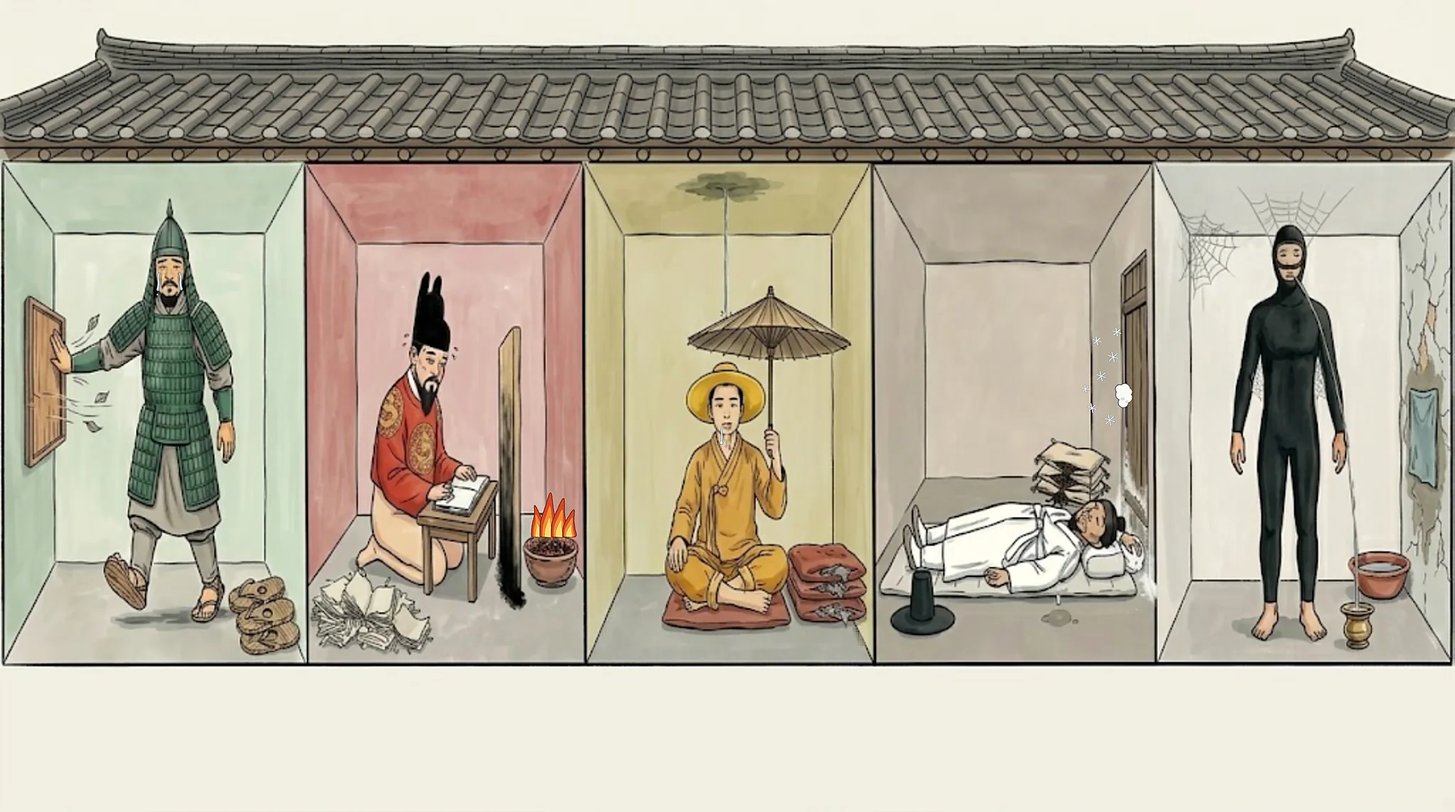
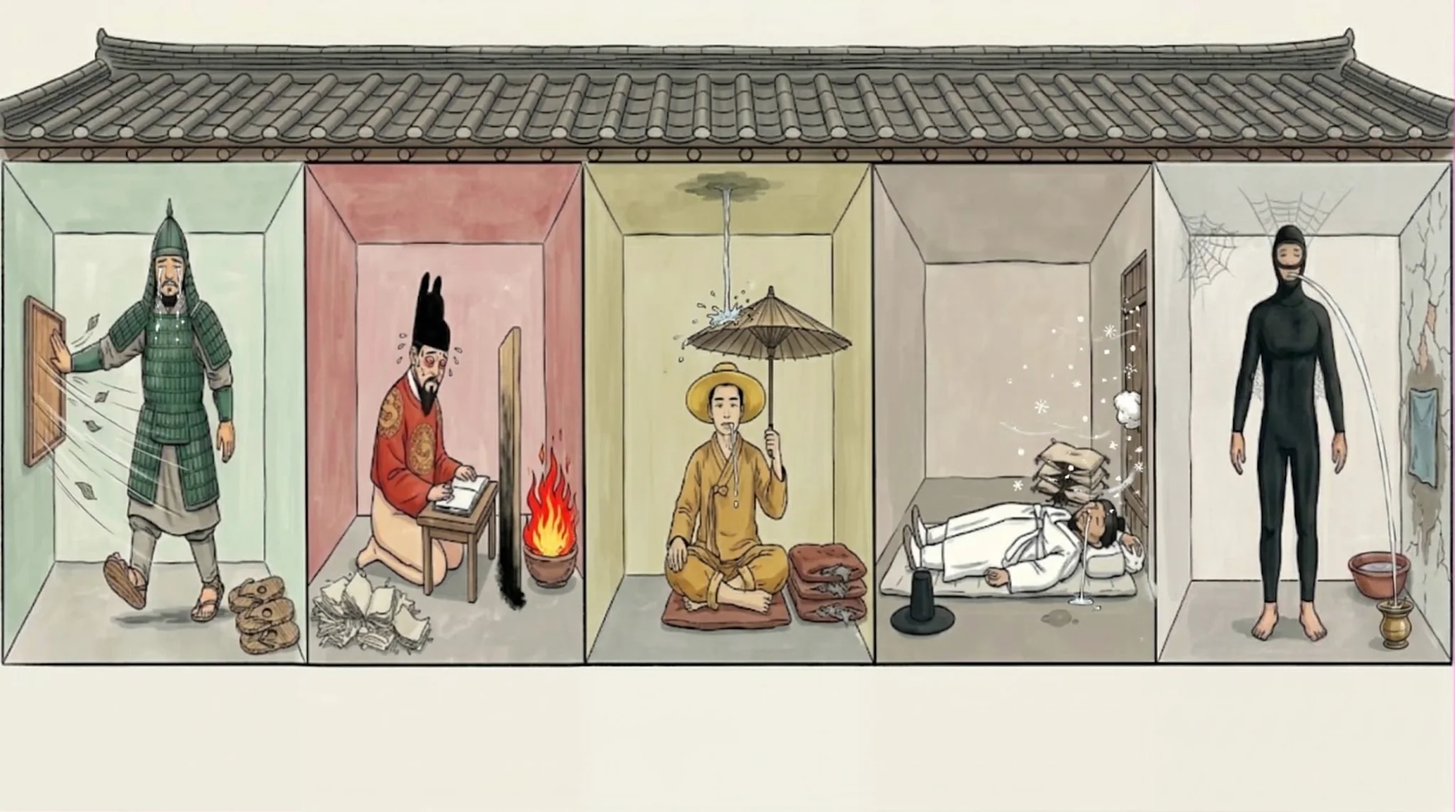
宣明五氣 s11u01 v2 — 보관했던 ZA~ZE 구역 편집을 4 Argon으로 실행해 PIL 덧그림 교체
2026-10-17 reCAPTCHA로 못 한 구역 편집 다섯(눈물·바람결 / 불꽃·충혈·땀 / 침·빗물 / 콧물·눈송이·솜뭉치 / 타구 침)을
같은 바탕 조각으로 실행, v1(wip/s11u01_v1_pil.webp) 위에 방 경계 own으로 합성. ZE는 같은 채팅 2회.
blind64z z20 90% · z50 85% · z80 88%(띠마다 9/9), blind65 P5 90% · Q5 93%, 5/5·5/5, 15/15·15/15.

Claude-Session: https://claude.ai/code/session_01H8LcZK4WVLkMjSUBUXBg6J

diff --git a/index.html b/index.html
@@ -548,7 +548,7 @@ footer{color:#999;font-size:12px;text-align:center;padding:20px}
 <img loading="lazy" decoding="async" src="images/s11u01.webp" alt="">
 <table><thead><tr><th>소품</th><th>잠그는 사실 (테스트 모드: 탭하여 확인)</th></tr></thead><tbody>
 <tr><td class="prop">앞벽을 걷어낸 긴 한옥 한 채 — 칸막이벽으로 나뉜 방 다섯(초록·붉은·노란·회벽·흰 회벽)이 한 줄로 붙고, 방마다 장부 인물 하나가 그 방에서 오래 하는 일(걷기·보기·앉기·눕기·서기)을 하고 있다. 방마다 같은 세 가지가 되풀이된다 — 해로운 기운과 사람 사이에 세운 가리개 · 얼굴 구멍에서 나온 액 · 닳은 물건 무더기(지금 쓰는 하나는 성함) <span class="why">왜?</span></td><td class="fact">素問·宣明五氣 — 五臟所惡(肝風·心熱·脾濕·肺寒·腎燥) · 五臟化液(肝淚·心汗·脾涎·肺涕·腎唾) · 五勞所傷(久行傷筋·久視傷血·久坐傷肉·久臥傷氣·久立傷骨) · 차례 = 木火土金水(相生)</td></tr>
-<tr class="reason"><td colspan="2" class="rz">다리 — 한 지붕 아래 다섯 방 — 한 편(宣明五氣)이 세 계열(所惡·化液·五勞)을 오장마다 동사형으로 배속한다는 것을, 방마다 같은 세 소품 문법으로 되풀이해 보여 준다(CANON 60 — 한 축은 다섯 칸에서 같은 문법을 반복해야 학습된다). 방 차례는 五行 s09u01과 같은 相生 차례.<br>◆ 개념 — 宣明五氣篇: 五藏所惡 「心惡熱 肺惡寒 肝惡風 脾惡濕 腎惡燥」 · 五藏化液 「心爲汗 肺爲涕 肝爲淚 脾爲涎 腎爲唾」 · 五勞所傷 「久視傷血 久臥傷氣 久坐傷肉 久立傷骨 久行傷筋」.<br>▸ 단원 통합(2026-10-17) — s11p01~p05 다섯 낱장을 한 장으로 합쳤다(4 Argon 바탕 1 — 낱장 다섯 칸 띠 참조). 낱장마다 있던 라벨 행 「素問·宣明五氣※」 다섯은 이 틀 행 하나로 묶었다. 구역 편집은 Gemini reCAPTCHA로 막혀(2026-10-17) 바탕 위에 PIL 덧그림 5(장군 눈물 · 농부 침 · 화로 불꽃 · 문틈 눈송이 · 흰 솜뭉치) + ✦ 메움으로 마감. 바탕 진단 판독 blind25(X): 宣明五氣 85% — 淚·涎 없음, 불꽃 없어 숯이 瘀로, 문틈 성에 = 裏寒 위험. 덧그림 뒤 통합판 blind26(판독자 둘): 판 표제어 **宣明五氣 五液·五惡·五勞 90% · 88%**, 다섯 인물 5/5 · 5/5, 인물마다 所惡·化液·五勞 셋 모두(肺 涕만 「요 끝에서 떨어지는 방울 — 추정」).</td></tr>
+<tr class="reason"><td colspan="2" class="rz">다리 — 한 지붕 아래 다섯 방 — 한 편(宣明五氣)이 세 계열(所惡·化液·五勞)을 오장마다 동사형으로 배속한다는 것을, 방마다 같은 세 소품 문법으로 되풀이해 보여 준다(CANON 60 — 한 축은 다섯 칸에서 같은 문법을 반복해야 학습된다). 방 차례는 五行 s09u01과 같은 相生 차례.<br>◆ 개념 — 宣明五氣篇: 五藏所惡 「心惡熱 肺惡寒 肝惡風 脾惡濕 腎惡燥」 · 五藏化液 「心爲汗 肺爲涕 肝爲淚 脾爲涎 腎爲唾」 · 五勞所傷 「久視傷血 久臥傷氣 久坐傷肉 久立傷骨 久行傷筋」.<br>▸ 단원 통합(2026-10-17) — s11p01~p05 다섯 낱장을 한 장으로 합쳤다(4 Argon 바탕 1 — 낱장 다섯 칸 띠 참조). 낱장마다 있던 라벨 행 「素問·宣明五氣※」 다섯은 이 틀 행 하나로 묶었다. 구역 편집은 Gemini reCAPTCHA로 막혀(2026-10-17) 바탕 위에 PIL 덧그림 5(장군 눈물 · 농부 침 · 화로 불꽃 · 문틈 눈송이 · 흰 솜뭉치) + ✦ 메움으로 마감. 바탕 진단 판독 blind25(X): 宣明五氣 85% — 淚·涎 없음, 불꽃 없어 숯이 瘀로, 문틈 성에 = 裏寒 위험. 덧그림 뒤 통합판 blind26(판독자 둘): 판 표제어 **宣明五氣 五液·五惡·五勞 90% · 88%**, 다섯 인물 5/5 · 5/5, 인물마다 所惡·化液·五勞 셋 모두(肺 涕만 「요 끝에서 떨어지는 방울 — 추정」).<br>▸ v2(2026-10-25) — reCAPTCHA가 풀려 보관한 구역 편집 ZA~ZE를 4 Argon으로 실행, PIL 덧그림을 갈아 끼움(눈물 · 바람결 · 불꽃·충혈·땀 · 침 실·빗물 · 콧물·눈송이·솜뭉치 · 타구로 뱉는 침). 판독(blind65): 판 단원 2/2 宣明五氣 90~93%, 5/5·5/5, 인물마다 所惡·化液·五勞 셋 모두(15/15·15/15) — v1의 肺 涕 반쯤 · 화풍 차이 사라짐.</td></tr>
 <tr><td class="prop">[木·초록 방] 초록 비늘갑옷 장군 — 방 안을 걸어감(맨 왼쪽 방) <span class="why">왜?</span></td><td class="fact">肝</td></tr>
 <tr class="reason"><td colspan="2" class="rz">다리 — 왕국 캐릭터 재사용=상징 사전. 같은 인물이 곧 같은 장부.<br>▸ 단원 통합(2026-10-17) — s11p01[0]에서 옮김.</td></tr>
 <tr><td class="prop">[木·초록 방] 뒷벽 창의 닫힌 나무 덧문을 장군이 손으로 누르고, 덧문 틈으로 잎과 바람결이 옆으로 비껴 날려 들어옴 <span class="why">왜?</span></td><td class="fact">肝惡風 (五臟所惡)</td></tr>
@@ -578,7 +578,7 @@ footer{color:#999;font-size:12px;text-align:center;padding:20px}
 <tr><td class="prop">[金·회벽 방] 뒷벽 나무 문의 벌어진 틈으로 눈송이가 들이치고, 그 문틈을 흰 솜뭉치로 틀어막음 <span class="why">왜?</span></td><td class="fact">肺惡寒 (五臟所惡)</td></tr>
 <tr class="reason"><td colspan="2" class="rz">다리 — 찬 기운의 침입 지점을 명사로(문틈+성에) → 솜뭉치로 봉쇄=所惡.<br>◆ 개념 — 왜 폐가 寒을 꺼리나: 폐는 겉(피모·호흡)과 직통하는 여린 장기(嬌臟)라 찬 기운에 가장 먼저 다친다.<br>▸ 단원 통합(2026-10-17) — s11p04[1]에서 옮김. 통합판에서 「문틈 성에·고드름」을 **문틈으로 들이치는 눈송이**로 바꿨다 — 사전 寒 갈림(안쪽 성에 = 裏寒)을 피하고(blind25 진단 판독이 정확히 이 오독을 짚음), 肝惡風(덧문 틈의 바람)과 같은 꼴로 맞췄다.</td></tr>
 <tr><td class="prop">[金·회벽 방] 콧등을 타고 턱 밑까지 길게 늘어져 **끝에 방울이 맺힌 맑은 줄기**, 그 아래 요에 젖은 자국 하나 <span class="why">왜?</span></td><td class="fact">肺爲涕 (五臟化液)</td></tr>
-<tr class="reason"><td colspan="2" class="rz">다리 — 肺開竅於鼻 — 폐의 액은 코로=콧물(涕).<br>　▸ 빈틈 메우기(2026-08-29) — **액체임을 확정한다.** 3차 판독에서 콧물이 「가루」로 읽혀 肺爲涕가 날아갔다 — 맺힌 방울과 젖은 자국이 액체의 증거다(§5 津 = 맑은 물방울과 같은 물성).<br>　　(종전 소품 — 길게 흐르는 콧물)<br>▸ 단원 통합(2026-10-17) — s11p04[2]에서 옮김.</td></tr>
+<tr class="reason"><td colspan="2" class="rz">다리 — 肺開竅於鼻 — 폐의 액은 코로=콧물(涕).<br>　▸ 빈틈 메우기(2026-08-29) — **액체임을 확정한다.** 3차 판독에서 콧물이 「가루」로 읽혀 肺爲涕가 날아갔다 — 맺힌 방울과 젖은 자국이 액체의 증거다(§5 津 = 맑은 물방울과 같은 물성).<br>　　(종전 소품 — 길게 흐르는 콧물)<br>▸ 단원 통합(2026-10-17) — s11p04[2]에서 옮김.<br>▸ v2(2026-10-25) — ZD: 콧구멍에서 요까지 늘어진 맑은 콧물로 다시 그림 → blind65 2/2 + 띠 둘 涕 ✓.</td></tr>
 <tr class="trap"><td class="prop">[金·회벽 방] 요에 축 늘어져 눈을 반쯤 감고 **입을 다문 채** 누움 + 머리맡에 포갠 **납작한 베개 셋** — 셋 다 눌려 진갈색 메밀껍질이 터져 나왔고 **네 귀퉁이마다 짧은 실 술이 달렸다** (목 밑에 벤 베개만 성하다) <span class="why">왜?</span></td><td class="fact">久臥傷氣 (五勞所傷 · 肺主氣)</td></tr>
 <tr class="reason trap"><td colspan="2" class="rz">다리 — 오래 "눕기"는 氣를 상함 — 氣의 주인이 肺라 이 방. 하품·늘어짐=「오래 누운 몸」의 증거. 심의 久視傷血과 짝을 이루는 주관 관계 함정.<br>◆ 개념 — 왜 오래 누우면 기가 상하나: 움직임이 없으면 기가 펴지지 못하고 정체되어 오히려 소모 — 폐가 기의 주인이라 이 방.<br>◆ 「久」를 무엇이 지는가: 자세로도 자국으로도 안 나온다 — 그 행위에 쓰는 물건이 「닿는 자리부터 닳아 없어진 채 여럿 쌓여 있는 것」이 「오래」를 진다(CANON §5-1). 久立만 닿는 물건이 없어(맨발·빈손) 거미줄이 대신 진다.<br>◆ 「傷Y」는 그림이 아니라 **라벨이 진다** — 다섯 칸 공통 규칙이다. 그림이 지는 것은 「久(오래)」 하나이고, 그 久가 어느 장부의 것인지는 「어느 방인가」(五臟 캐릭터)가 진다. 血·氣·肉·骨·筋 자체를 낱개 소품으로 흩으면 규칙 60이 금지한 상태가 된다 — 블라인드 판독에서 종아리 띠는 「그냥 부상」, 충혈은 「心藏神」, 하품은 「감기」로 읽혔다.<br>　▸ 빈틈 메우기(2026-08-29) — 두 가지를 지운다 — ⓐ **하품을 뺐다**(§5 「하품」 항목: 판독자가 五氣所病 腎爲欠으로 먼저 읽어 肺 방이 腎으로 뒤집혔다). 久臥의 증거는 「눕기 + 닳은 베개 셋」이 이미 다 진다 ⓑ 베개에 **술**을 달아 「곡물 자루」 오독을 끊었다 — 자루로 읽히면 「콩팥」 말놀이로 다시 腎이 된다. 자루는 §5에서 收 전담 기호이기도 하다.<br>　　(종전 소품 — 요에 늘어져 누움 + 힘없는 하품 + 진갈색 메밀껍질이 터져 나온 납작한 베개 세 개가 머리맡에 포개짐(벤 베개만 성함))<br>　　⚠ 정정 — 술만 더하고 **수는 셋 그대로 둔다.** §5 久 = 같은 물건 셋이 포개진 것이라 둘로 줄이면 久가 깨진다(五勞所傷 다섯 칸이 예외 없이 이 문법이다).<br>▸ 단원 통합(2026-10-17) — s11p04[3]에서 옮김.</td></tr>
 <tr><td class="prop">[水·흰 방] 검은 잠수복+후드+고글 잠수부 — 꼿꼿이 선 부동자세(맨 오른쪽 방) <span class="why">왜?</span></td><td class="fact">腎</td></tr>
@@ -586,7 +586,7 @@ footer{color:#999;font-size:12px;text-align:center;padding:20px}
 <tr><td class="prop">[水·흰 방] 들뜬 회벽이 쩍쩍 갈라져 박리 + 벽에 붙인 젖은 무명 수건과 고인 물그릇 <span class="why">왜?</span></td><td class="fact">腎惡燥 (五臟所惡)</td></tr>
 <tr class="reason"><td colspan="2" class="rz">다리 — 메마름을 벽의 균열·박리로 명사화, 젖은 수건과 물그릇으로 마른 벽을 적시는 것=燥를 꺼림.<br>◆ 개념 — 왜 신이 燥를 꺼리나: 조는 진액을 말리는 기운이라 신이 저장하는 정수(精水)를 고갈시키기 때문.<br>※ s09p04(→s09u01)의 갈라진 **땅**(秋燥·肺)과 같은 燥 기호다 — 딥링크라 옳고, 재료(마른 흙 ↔ 들뜬 회벽)와 **막는 사물의 유무**로 가른다. 所惡 칸에만 젖은 수건·물그릇이 있다(규칙 59).<br>※ 물은 부호가 없다 — **떨어지는 물줄기는 濕(해로움), 그릇에 고인 물은 보습(이로움)**. 이 칸에는 낙수·누수가 없다.<br>▸ 단원 통합(2026-10-17) — s11p05[1]에서 옮김.</td></tr>
 <tr class="trap"><td class="prop">[水·흰 방] 포물선을 그려 놋 타구로 뱉음(턱 비접촉) <span class="why">왜?</span></td><td class="fact">腎爲唾 (五臟化液) ★흘리는 涎(脾)과 변별</td></tr>
-<tr class="reason trap"><td colspan="2" class="rz">다리 — 唾=의지로 "뱉는" 침. 포물선+타구+턱 비접촉 세 조건이 涎과의 경계선.<br>◆ 개념 — 唾는 신정이 혀 밑(金津玉液)으로 올라온 진액 — 그래서 함부로 뱉지 말라는 양생 격언과 연결(정을 아낌).<br>▸ 단원 통합(2026-10-17) — s11p05[2]에서 옮김.</td></tr>
+<tr class="reason trap"><td colspan="2" class="rz">다리 — 唾=의지로 "뱉는" 침. 포물선+타구+턱 비접촉 세 조건이 涎과의 경계선.<br>◆ 개념 — 唾는 신정이 혀 밑(金津玉液)으로 올라온 진액 — 그래서 함부로 뱉지 말라는 양생 격언과 연결(정을 아낌).<br>▸ 단원 통합(2026-10-17) — s11p05[2]에서 옮김.<br>▸ v2(2026-10-25) — ZE: 포물선으로 놋 타구 안에 떨어지는 침(2차에서 타구 안으로) → blind65 2/2 唾 ✓(타구 = 요강 위험은 남음).</td></tr>
 <tr><td class="prop">[水·흰 방] 꼿꼿이 선 부동자세 + 두 겨드랑이와 머리 위에 쳐진 거미줄 셋 <span class="why">왜?</span></td><td class="fact">久立傷骨 (五勞所傷 · 骨=腎의 五體)</td></tr>
 <tr class="reason"><td colspan="2" class="rz">다리 — 오래 "서기"는 骨을 상함 — 骨은 腎의 五體. 오래 안 움직여 몸에 쳐진 거미줄=오래 서기의 명사화. 다섯 칸 중 유일하게 닿는 물건이 없어(맨발·빈손) 몸 위에 생긴 것으로 갔다. 원래는 「제자리에 닳은 두 발 자국」이었는데 「젖은 헝겊? 소금? 각질?」로 읽혀 폐기했다.<br>◆ 「久」를 무엇이 지는가: 자세로도 자국으로도 안 나온다 — 그 행위에 쓰는 물건이 「닿는 자리부터 닳아 없어진 채 여럿 쌓여 있는 것」이 「오래」를 진다(CANON §5-1). 久立만 닿는 물건이 없어(맨발·빈손) 거미줄이 대신 진다.<br>◆ 「傷Y」는 그림이 아니라 **라벨이 진다** — 다섯 칸 공통 규칙이다. 그림이 지는 것은 「久(오래)」 하나이고, 그 久가 어느 장부의 것인지는 「어느 방인가」(五臟 캐릭터)가 진다. 血·氣·肉·骨·筋 자체를 낱개 소품으로 흩으면 규칙 60이 금지한 상태가 된다 — 블라인드 판독에서 종아리 띠는 「그냥 부상」, 충혈은 「心藏神」, 하품은 「감기」로 읽혔다.<br>▸ 단원 통합(2026-10-17) — s11p05[3]에서 옮김.</td></tr>
 </tbody></table>

diff --git a/src/coverage/blind65/901_Q5.md b/src/coverage/blind65/901_Q5.md
@@ -1,0 +1,43 @@
+# 901 판독 (Q5)
+
+## 1단계 — 생판 (사전 없이 그림만)
+
+**① 판 표제어**
+- 1순위: **宣明五氣 — 五惡·五液·五勞所傷 통합** (85%)
+- 2순위: **五臟 五行配屬(五色·五液·五惡)** (10%)
+- 근거: 기와지붕 한 채가 다섯 칸으로 나뉘고, 칸 색이 왼쪽부터 청·적·황·회백·백(인물 흑)이다. 칸마다 「분비액 하나 + 싫어하는 기후 하나 + 오래 한 자세 하나」가 되풀이된다. 이는 『素問·宣明五氣』의 五液·五惡·五勞 세 묶음과 정확히 맞는다.
+
+**② 인물별 (왼쪽부터)**
+1. 청록 칸, 녹색 갑옷의 무사 — **肝** (5개): 녹색은 肝-靑. 무장은 將軍之官. 눈물은 肝爲淚. 판자 틈으로 드는 바람과 나뭇잎 5장은 肝惡風. 성큼 걷는 걸음과 닳은 짚신 3켤레 더미는 久行傷筋.
+2. 분홍·적색 칸, 곤룡포와 익선관 차림의 임금 — **心** (5개): 홍색은 心-赤. 임금은 君主之官. 이마의 땀방울 약 6개는 心爲汗. 화로 불과 그을린 판자는 心惡熱. 충혈된 눈과 다크서클로 책을 읽는 모습, 닳은 책 더미는 久視傷血.
+3. 황색 칸, 황색 승복에 삿갓을 쓴 좌선자 — **脾** (4개): 황색은 脾-黃. 입에서 흐르는 침은 脾爲涎. 천장 누수 얼룩, 떨어지는 물줄기, 우산은 脾惡濕. 방석 위 가부좌와 해진 방석 3개는 久坐傷肉.
+4. 회백 칸, 흰옷 차림으로 누운 사람 — **肺** (4개+α): 백의는 肺-白. 콧물이 바닥에 고인 것은 肺爲涕. 문틈으로 드는 눈송이와 눈뭉치는 肺惡寒. 요 위에 누운 자세와 해진 베개 3개는 久臥傷氣. 벗어 둔 갓은 相傅之官(재상·선비)일지도 모른다(불확실).
+5. 백벽 칸, 검은 잠수복 차림으로 선 사람 — **腎** (4개+α): 검정은 腎-黑이고, 잠수복은 水를 나타낸다. 놋 타구에 침을 뱉는 모습은 腎爲唾. 거미줄 3개, 갈라진 벽, 걸린 마른 수건은 腎惡燥. 꼿꼿이 서 있고 팔과 몸 사이에까지 거미줄이 친 것은 久立傷骨. 물대야는 뜻이 불분명하다.
+
+**③ 잔결**
+- 2번 임금의 하의가 맨살처럼 살색이라 어색하다. 세워 둔 판자가 한쪽만 까맣게 탄 뜻도 애매하다(열 가림막?).
+- 4번 바닥에 놓인 갓의 뜻을 모르겠다. 베개 끝 손 옆에 흰 토끼 같은 형상이 있다.
+- 5번 붉은 물대야의 뜻이 불명하다(唾 그릇? 燥에 맞선 가습?).
+- 1번 무사가 손으로 누르는 판자가 창 덧문인지 판때기인지 모호하다.
+- 지붕 처마 양 끝이 화면 가장자리에 닿아 꽉 차 있고, 하단 약 15%는 빈 여백이다. 칸 사이에 이어 붙인 흔적은 보이지 않는다.
+
+## 2단계 — 계통 (blind6_사전요약 어휘로 다시 읽기)
+
+**① 판 표제어**
+- 1순위: **宣明五氣 — 五惡·五液·五勞所傷 통합** (90%)
+- 2순위: **五臟 五行配屬(臟象 오장: 五色·五液·五惡)** (7%)
+- 판정: 사전이 1단계 읽기를 뒷받침하고 더 단단하게 한다. 첫째, 「惡 = 해로운 것과 사람 사이에 세워 막은 가리개」로 각 칸의 판자·그을린 판자·우산·문이 모두 惡으로 읽힌다. 둘째, 「久 = 같은 물건 셋이 포개진 것」(닳은 무더기는 傷이 아니라 久라는 갈림 포함)으로 짚신·방석·베개 3겹이 久로 확정된다. 그러니 칸마다 「臟 + 液 + 惡X + 久Y」 네 사실이 나란히 선 구조다.
+
+**② 인물별 (왼쪽부터)**
+1. 초록 비늘갑옷 장군 — **肝** (4개): 장군은 肝이다. 눈물은 肝爲淚. 손으로 세워 막은 판자(惡)와, 옆으로 눕고 흘러 날리는 잎·바람줄(風)이 합쳐 肝惡風. 걷는 걸음(行)과 짚신 3겹(久)이 합쳐 久行. 傷筋은 그림이 나르지 않으니 독자가 채운다.
+2. 붉은 곤룡포 임금 — **心** (4개): 임금은 心이다. 살갗의 땀방울은 汗 = 心爲汗. 불꽃(熱)과 임금 사이에 세운 판자가 惡이 되어 心惡熱을 이룬다. 1단계에서 애매했던 그을린 판자는 이로써 풀렸다. 크게 뜬 눈(目, 視)과 붉은 눈가(血), 닳은 책 무더기(久)가 합쳐 久視傷血.
+3. 노란 밀짚모자 농부 — **脾** (4개): 1단계에서 승려로 본 것은 사전에 따르면 농부(脾)다. 입에서 흐르는 침은 脾爲涎. 천장에서 쏟아지는 빗물(濕, 外濕)과 사람 사이를 우산이 막아 惡이 되니 脾惡濕. 가부좌(坐)와 방석 3겹(久)이 합쳐 久坐(傷肉).
+4. 흰 도포 재상 — **肺** (4개): 바닥에 벗어 둔 검은 갓은 재상의 옷차림이 자리를 바꾼 것이다. 太가 아니라 肺의 표지이자 누운 상태를 보탠다. 콧물은 肺爲涕. 문(가리개)과 문틈의 눈송이(外寒)가 합쳐 肺惡寒. 누운 자세(臥)와 베개 3겹(久)이 합쳐 久臥(傷氣). 문틈의 흰 뭉치는 氣(흰 김)로도 읽힐 수 있다.
+5. 검은 잠수복·후드·고글 잠수부 — **腎** (4개): 잠수부는 腎이다. 타구에 침을 뱉는 모습은 腎爲唾. 갈라진 벽과 마른 수건이 燥이지만, 세워 막은 가리개가 없어 惡의 표지는 약하다. 꼿꼿이 선 자세(立)와 몸에까지 친 거미줄이 久立(傷骨)이지만, 3겹 포갬 기호는 없다.
+
+**③ 잔결**
+- 5번 칸만 惡 가리개와 久 3겹이 빠져 있어 다른 네 칸과 문법이 어긋난다. 붉은 대야의 맑은 물은 사전대로라면 淸으로 읽히는데, 이 판에서는 뜻이 없다. 놋 그릇은 요강(小便)으로 오독될 위험이 있다.
+- 다섯 칸 모두 「그 사물이 깨진」 傷 기호가 없어, 傷筋·傷血·傷肉·傷氣·傷骨은 그림이 아니라 암기로 메워야 한다.
+- 2번 임금의 하의가 살색이라 어색하다. 4번 베개 끝에 흰 토끼 형상이 있다.
+- 흘러내리는 액체는 盛(넘쳐 흐름)으로, 기와지붕은 寺로 샐 여지가 있다.
+- 하단은 빈 여백이고, 처마가 화면 가장자리까지 꽉 찬다. 이어 붙인 흔적은 없다.

diff --git a/src/coverage/blind65/901_P5.md b/src/coverage/blind65/901_P5.md
@@ -1,0 +1,43 @@
+# 901 판독 (P5)
+
+## 1단계 — 생판 (사전 없이 그림만)
+
+**① 판 표제어**
+- 1순위 **宣明五氣 — 五藏所惡·五藏化液·五勞所傷 통합** (88%)
+- 2순위 **五臟 五行配屬(藏象 五臟 歸類表)** (8%)
+- 근거: 기와지붕 한 채에 방 5칸, 벽·옷 색이 靑·赤·黃·白·黑 순(木火土金水 상생순). 칸마다 「액체 하나 + 싫어하는 기후 하나 + 오래 한 자세 하나」가 똑같은 틀로 반복됨 → 《素問·宣明五氣》의 세 표를 한 장에 겹친 것.
+
+**② 인물별 (왼→오)**
+1. 녹색 방 갑옷 무사 — **肝** : ⓐ 靑색(木) ⓑ 무사=將軍之官 ⓒ 눈물 줄줄=肝爲淚 ⓓ 옆문을 밀자 바람·나뭇잎(6장 안팎) 들이침=肝惡風 ⓔ 걷는 중 + 바닥 닳아 구멍 난 짚신 3켤레=久行傷筋. **5개**
+2. 붉은 방 곤룡포 인물 — **心** : ⓐ 赤색(火) ⓑ 용보 곤룡포·익선관=君主之官 ⓒ 이마 땀방울=心爲汗 ⓓ 화로 불길 + 그을린 널판=心惡熱 ⓔ 충혈된 눈으로 책 읽기 + 다 읽은 책 더미=久視傷血. **5개**
+3. 노란 방 좌정 인물 — **脾** : ⓐ 黃색(土, 옷·갓·벽) ⓑ 입에서 침 흘림=脾爲涎 ⓒ 천장 얼룩에서 물이 새 우산 받침=脾惡濕 ⓓ 책상다리로 앉음 + 해져 솜 터진 방석 3장=久坐傷肉. **4개**
+4. 회백 방 누운 인물 — **肺** : ⓐ 白색(金, 흰 옷) ⓑ 콧물이 바닥까지 흘러 웅덩이=肺爲涕 ⓒ 문틈으로 눈발·찬바람, 솜뭉치로 틈 막음=肺惡寒 ⓓ 누워 있음 + 터진 베개 3개=久臥傷氣. **4개**
+5. 흰 방 검은 잠수복 인물 — **腎** : ⓐ 黑색(水, 잠수복=물) ⓑ 놋 타구에 침 뱉기=腎爲唾 ⓒ 갈라지고 벗겨진 벽 + 마른 수건 + 물대야=腎惡燥 ⓓ 꼼짝 않고 서 있어 몸·천장에 거미줄=久立傷骨. **4개**
+
+**③ 잔결**
+- 뜻 모를 소품: 4번 방 바닥의 검은 갓(벗어 둔 것인지 相傅之官 표지인지 불명), 4번 베개 끝 흰 토끼 얼굴, 5번 파란 수건·물대야(燥 반대 장치로만 추정), 2번 그을린 널판(熱과 중복).
+- 「3개 더미」(짚신·방석·베개)가 3칸에 반복되나 숫자 3이 나르는 사실은 못 찾음 — 단순 '오래 써서 닳음' 표시로 읽음.
+- 2번·4번 방 오른쪽 아래 바닥에 네모꼴 반짝이(✦) 2개 — 그림 내용과 무관, 생성 흔적 의심.
+- 화면 하단 약 20%가 빈 크림색 여백, 전체 해상도 흐림(확대 업스케일 느낌). 칸 경계·지붕은 연속, 이어 붙인 솔기는 안 보임.
+- 1번 방 지붕·벽 왼끝이 프레임 가장자리에 바짝 붙음(살짝 잘림).
+
+## 2단계 — 계통 (blind6_사전요약 어휘로 다시 읽기)
+
+**① 판 표제어**
+- 1순위 **宣明五氣 — 五藏所惡·五藏化液·五勞所傷** (93%, 상향)
+- 2순위 **五臟 五行配屬(藏象 五臟 系統表)** (5%)
+- 사전으로 더 잘 풀림: 「惡 = 해로운 것과 사람 사이의 가리개」가 다섯 칸 모두에 있다(문·널판·우산·문+솜·수건). 1단계에서 '그을린 널판'을 熱 중복으로 봤으나 실은 불꽃(熱)과 임금 사이의 가리개 = 惡. 「久 = 같은 물건 셋이 포개진 것」이 짚신·방석·베개 3칸에 그대로 맞음. 「닳은 무더기는 傷이 아니라 久」 규칙도 부합.
+
+**② 인물별 (왼→오)** — 옷 모양은 인물 지목일 뿐(官 등 따로 안 읽음)
+1. 초록 갑옷 장군 = **肝**(靑) : 눈물=肝爲淚 / 옆으로 날리는 잎=風 + 문을 밀어 막음(가리개)=惡 → 肝惡風 / 짚신 셋 포개짐=久 + 걷기 → 久行傷筋. **3개**
+2. 붉은 곤룡포 임금 = **心**(赤) : 땀방울=汗=心爲汗 / 불꽃=熱 + 널판 가리개=惡 → 心惡熱 / 독서 + 붉은 눈=血 → 久視傷血. **3개**
+3. 노란 밀짚모자 농부 = **脾**(黃) : 침=脾爲涎 / 천장 누수=外濕 + 우산 가리개=惡 → 脾惡濕 / 앉음 + 방석 셋=久 → 久坐傷肉. **3개**
+4. 흰 도포 재상 = **肺**(白) : 콧물=肺爲涕 / 눈송이=外寒 + 문·솜 가리개=惡 → 肺惡寒 / 누움 + 베개 셋=久 → 久臥傷氣(벗어 둔 갓 = 자리 바뀜, 臥 보강). **3개**
+5. 검은 잠수복 잠수부 = **腎**(黑) : 침 뱉기=腎爲唾 / 갈라진 벽=燥 + 수건(가리개?)·물대야 → 腎惡燥 / 서 있음 + 거미줄 → 久立傷骨. **3개**
+
+**③ 잔결 (사전 기준)**
+- 傷筋·傷肉·傷氣·傷骨의 筋·肉·氣·骨 기호(힘줄 다발·살덩이·흰 김·흰 뼈)가 없음 → 五勞의 '傷○' 뒷절반은 心(붉은 눈=血)만 글자로 실림.
+- 2번 책 더미는 셋 포개짐이 아닌 흐트러진 무더기, 5번 久立은 셋 포개짐 대신 거미줄 → 久 문법 불일치.
+- 5번 놋 그릇이 등재 기호 요강(=小便)과 같은 꼴, 물대야는 淸(맑고 찬 물 한 그릇)과 겹침 → 오독 위험. 수건이 가리개로 약함.
+- 4번 바닥 갓은 太(사물 위 갓)와 헷갈릴 여지, 베개 끝 토끼 얼굴 미상.
+- ✦ 반짝이 2개(2·4번 칸 오른쪽 아래), 하단 빈 여백, 흐린 해상도. 이어 붙인 솔기는 없음.

diff --git a/src/MASTER_단원통합_구역편집.md b/src/MASTER_단원통합_구역편집.md
@@ -439,6 +439,9 @@ python3 zone_kit.py finish comp.png <repo>/images/s13u01.webp --wm 1210,760,1260
 | 이웃 인물(心 임금)의 **우연히 검게 칠해진 손톱**이 사전 爪로 읽혀 肝의 華在爪가 心 칸으로 샘(2/2 + 띠) | 바탕이 손톱 끝을 검은 점으로 그림 | 華 소품이 몸의 작은 부위(손톱·털·머리칼)면 **다른 인물의 같은 부위를 평범하게** 지운다. PIL 덮개는 둘레 **살색 중앙값 원판** — 밝은 픽셀 평균으로 덮었더니 「흰 반짝이 = 華+爪」로 또 읽힘(`board_hist/s20u01_post.py`) |
 | 구역 편집 셋을 **탭 셋에 나눠 동시에** 보냄 (s20u01 ZB·ZC·ZD) | — | 크롭이 겹쳐도(중심 195 css 간격) own을 사람 경계로 잡으면 이음매 깨끗(정합 셋 다 0,0). 한 탭은 6분 걸림 — 기다리는 동안 다른 탭 결과를 붙인다. 오늘은 탭 B(1171×735)도 첨부가 붙었다 |
 | 오래전 마감한 판을 허브에 올리니 **가장자리 검은 띠**(r3a 오른쪽 위 18열 — 타일 캡처 때 오버레이 밖) · **페더 그림자 띠**(r1a 아래 레인 ×0.73)가 보임 | 마감 때 가장자리·이음매 검사를 안 거친 판 | 허브에 올리기 전 판마다 ① 가장자리 4변의 평균 밝기(검정·마젠타 줄) ② 열별 90 백분위가 여러 줄 띠에 걸쳐 같은 x에서 꺼지는 곳(페더 그림자)을 기계로 본다. 그림자는 흰 바탕 열의 이득(252/p90)을 그 띠에만 곱해 지운다 |
+| 막혔던 구역 편집 프롬프트 다섯을 **8일 뒤 그대로** 보내니 다섯 다 1회에 통함 (s11u01 v2) | — | 구역 편집이 막히면(reCAPTCHA·도구 정지) 프롬프트를 `unify_*_prompts.json`에 보관하고 PIL로 임시 마감 → 풀리면 같은 바탕 조각으로 실행해 갈아 끼운다. PIL 덧그림은 사실은 세우지만(20/20) 독자가 「화풍이 다른 오버레이」로 짚는다 |
+| 같은 채팅 2차 요청에 **「이미지 도구가 연결되어 있지 않다」 글과 함께 새 그림**이 옴 (s11u01 ZE2 — 침이 타구 안으로) | §7 허용 카드 행과 같은 현상 | `model-response` 글만 보고 버리지 말고 `img` 개수를 센다 — 둘째 그림이 있으면 그것이 2차 결과 |
+| 조각 다섯을 세 탭에 나눠 보내다 두 탭이 동시에 **reCAPTCHA** (s11u01 v2 — 10-17과 같은 판) | 짧은 시간에 첨부 업로드 여러 번 | 사용자에게 알리고 로컬 작업(앞 조각 합성)으로 기다린다 — 이번엔 몇 분 안에 풀림. 풀린 뒤 탭 하나는 paste가 안 붙고(queued 2개) 다른 탭은 정상 — 안 붙는 탭은 그 턴은 버린다 |
 ---
 
 ## 8. 六淫에서 남은 잔결 (다음 손질 후보)
@@ -454,7 +457,7 @@ python3 zone_kit.py finish comp.png <repo>/images/s13u01.webp --wm 1210,760,1260
 | **六淫** | s15p01~06 (6) | 24 | ✅ `s15u01` 완료 |
 | **五行 왕국** | s09p01~05 (5) | 20 | ✅ `s09u01` 완료(2026-10-16, blind21 판 표제어 85%·90%, 인물 5/5·5/5) |
 | **八卦 마주봄** | s10p02~05 (4) | 13 | ✅ `s10u01` 완료(2026-10-16, blind23 판 표제어 92%·88%, 인물 8/8·8/8, 네 쌍 관계 4/4) |
-| **宣明五氣 오장 방** | s11p01~05 (5) | 25 | ✅ `s11u01` 완료(2026-10-17, blind26 판 표제어 90%·88%, 인물 5/5·5/5 — 구역 편집은 reCAPTCHA로 못 하고 PIL 덧그림으로 대체, Gemini 풀리면 ZA~ZE로 갈아 끼울 것) |
+| **宣明五氣 오장 방** | s11p01~05 (5) | 25 | ✅ `s11u01` 완료(2026-10-17, blind26 판 표제어 90%·88%, 인물 5/5·5/5 — 구역 편집은 reCAPTCHA로 못 하고 PIL 덧그림으로 대체) → **v2 2026-10-25**: 보관한 ZA~ZE를 4 Argon으로 실행해 덧그림을 갈아 끼움(blind65 90%·93%, 5/5·5/5, 15/15·15/15 — 肺 涕·화풍 차이 잔결 해소) |
 | **望色 五色** | s12p01~06 (6) | 24 | ✅ **두 장으로 가름**(환자 17명 — 한 장이면 얼굴이 절반 아래로): `s12u01` 靑·赤·黃(blind28 88%·88%, 9/9·9/9) · `s12u02` 白·黑·善惡(blind31 85%·80%, 善惡 쌍둥이 ✓✓) — 2026-10-17 |
 | **問診·切診** | s12p07·09·10 (3) | 14 | ✅ `s12u03` 완료(2026-10-18, blind33 四診 55/75/75%, 8脈 8/8 ✓✓✓, 寸關尺 = 징검돌 셋 ✓✓✓, 聾 표정 손질 뒤 耳聾 ✓ — 잔결: 聾↔聞診 30%, 냇물 낙차의 盛·下 잡음, 징검돌이 냇물을 안 가로지름) · 도해 s12p08은 그대로 |
 | **六經** | s13p01~06 (6) | 24 | ✅ **두 장으로 가름**(사람 아홉 — 얼굴 표지·세간 소품): `s13u01` 三陽(성 밖·성문·마당, blind35 88%·65%, 5/5·5/5) · `s13u02` 三陰(곳간·어두운 방·가장 깊은 방, blind37 90%·85%, 4/4·4/4) — 한 성의 단면을 이어 그림, 자리 = 病位(表·半表半裏·裏·三陰), 차례는 도해 s13p11 · 2026-10-18 |

diff --git a/src/coverage/blind64z/z50.md b/src/coverage/blind64z/z50.md
@@ -1,0 +1,25 @@
+# z50 판독
+
+## 1단계 — 생판 (사전 보기 전)
+
+**① 단원**: **宣明五氣**(素問·宣明五氣篇) 70% / 2순위 **五行 五臟배속표** 20% / 3순위 **七情·勞逸(五勞所傷)** 10%
+
+**② 인물** — 한 기와지붕 아래 세 칸, 칸마다 벽색 = 五色.
+- 왼칸(분홍·붉은 방) 익선관·용보 붉은 곤룡포의 왕 = **心**(君主之官·火). 이마의 땀방울 = **心爲汗**(五液). 화로불 = **心惡熱**(五惡). 충혈된 눈 + 책상에서 책 보기 + 바닥의 해진 책 더미 = **久視傷血**(五勞). 세워 둔 널판자의 시커먼 그을음 = 열에 상함(또는 五臭 焦) — 불확실.
+- 가운데(노란 방) 노란 갓·노란 옷의 농부 = **脾**(土). 입에서 길게 흐르는 침 = **脾爲涎**. 천장 얼룩에서 새는 빗물 + 받쳐 든 우산 = **脾惡濕**. 방석 위 가부좌 + 곁의 속이 터진 살색 방석 3장 = **久坐傷肉**.
+- 오른칸(회백 방) 흰옷 차림으로 누운 사람 = **肺**(金). 코에서 바닥까지 흐르는 콧물 = **肺爲涕**. 눈송이·찬바람 = **肺惡寒**. 누운 자세 + 갈라진 베개 3개 = **久臥傷氣**.
+- 관계: 왼→오 **火→土→金 相生 순서**로 칸이 이어짐. 한 지붕 = 한 몸의 五臟. 빠진 **肝(淚·惡風·久行傷筋)**, **腎(唾·惡燥·久立傷骨)**은 이웃 띠 몫으로 추정. 각 칸이 「液·惡·勞」 3항목을 똑같이 나르는 병렬 구조.
+
+**③ 잔결**: 그을린 널판자의 뜻 불명. 흰 방 바닥의 검은 갓(腎=黑 예고? 단순히 벗어 둔 것?). 베개를 가르는 검은 균열. 왕의 하체가 맨다리처럼 살색. 세 칸의 소실점·천장 높이가 서로 달라 이어 붙인 흔적이 보임. 오른 칸 오른쪽 끝에서 눈발·인물 머리가 잘림.
+
+## 2단계 — 계통 (사전 어휘로 다시 읽기)
+
+**① 단원**: **宣明五氣** 85% (「惡 = 해로운 것과 사람 사이 가리개」 어휘가 붙자 五惡이 확정됨) / 2순위 **五行 五臟배속** 12%
+
+**② 인물** (옷 색 = 五色, 옷차림 = 인물 지시)
+- 왼칸 붉은 곤룡포 임금 = **心**. 살갗의 땀방울 = 汗 → **心爲汗**. 불꽃(熱)과 임금 사이에 세운 널판자 = 惡(가리개) → **心惡熱** — 판자가 그을린 것은 열을 막아 낸 흔적이라 1단계 수수께끼가 풀림. 충혈된 눈 = 目+血, 바닥의 닳아 해진 책 무더기 = 久(닳은 무더기는 傷 아닌 久) → **久視傷血**.
+- 가운데 노란 밀짚모자 농부 = **脾**. 입(口)에서 흐르는 침 → **脾爲涎**(口 = 脾竅도 함께). 천장에서 새는 빗물(外濕)과 머리 사이의 우산 = 惡 → **脾惡濕**. 가부좌(坐) + 포갠 방석 셋 = 久, 터진 살색 방석 = 肌(살덩이)+傷 → **久坐傷肉**.
+- 오른칸 흰 도포 재상 = **肺**(바닥의 검은 갓은 재상 차림이 누워 벗겨진 것). 열린 콧구멍(鼻)에서 흐르는 콧물 → **肺爲涕**. 눈송이 = 寒 → **肺惡寒**. 누움(臥) + 포갠 베개 셋 = 久, 베개를 가르는 검은 균열 = 傷, 틈에서 새는 흰 김 = 氣 → **久臥傷氣**.
+- 관계: 왼→오 **火→土→金 相生 순서**, 脾가 셋 중 가운데 = **中**(中央土). 세 칸 모두 「液·惡·勞」 3항목 병렬 → 宣明五氣篇의 五液·五惡·五勞所傷 세 표를 칸별로 잘라 놓은 것. 肝·腎 칸은 이웃 띠.
+
+**③ 잔결**: 肺 칸에는 눈송이와 사람 사이 가리개(惡)가 분명치 않음 — 포갠 베개가 가리개 겸 久를 이중으로 지는 듯해 과적. 가로로 흐르는 흰 곡선이 氣(김)인지 風(옆으로 날림)인지 갈림 — 風으로 읽으면 肝惡風과 샌다. 바닥의 검은 갓이 太(사람 아닌 것 위의 갓)로 오독될 여지. 긴 기와지붕이 寺로 읽힐 여지. 임금 하체가 맨다리처럼 보임. 세 칸 소실점 불일치(이어 붙인 흔적).

diff --git a/src/coverage/blind64z/z80.md b/src/coverage/blind64z/z80.md
@@ -1,0 +1,27 @@
+# z80 판독
+
+## 1단계 — 생판 (그림만)
+
+**① 단원**: **宣明五氣**(素問·宣明五氣篇 — 五液·五惡·五勞所傷) 80%. 차순위 **五臟 五行귀속표(藏象)** 15%.
+
+**② 인물** — 한 지붕 아래 방 셋, 왼→오 노랑·흰·검정 = 土→金→水(相生 순). 띠는 다섯 방 중 끝 셋, 지붕 끝 처마가 오른쪽에서 끝남.
+- 왼쪽 방(**脾**): 노란 도포·노란 갓·노란 벽. 입꼬리로 침이 줄줄 흘러내림 = **脾爲涎**. 천장 누수 + 실내 우산 = **脾惡濕**. 방석 위 책상다리 = **久坐傷肉**; 곁의 방석 3장이 해져 솜이 터짐 = 오래 앉아 '살'이 닳음.
+- 가운데 방(**肺**): 흰 옷, 누워 있음 = **久臥傷氣**. 코에서 콧물이 바닥까지 = **肺爲涕**. 문틈으로 눈보라, 솜으로 틈을 막음 = **肺惡寒**. 베개 3개가 쌓여 찢어짐 = 오래 누운 소모(氣 빠짐).
+- 오른쪽 방(**腎**): 검은 잠수복(水·黑). 서 있음, 몸에 거미줄까지 = **久立傷骨**. 입에서 침을 멀리 뱉어 놋 타구에 = **腎爲唾**. 갈라진 마른 벽·천장 거미줄 = 燥, 물대야·젖은 수건·잠수복으로 습기 보충 = **腎惡燥**.
+
+**관계**: 세 방이 상생 순 土→金→水로 나란함(앞 두 방 肝·心은 이웃 띠). 涎(흘림)↔唾(뱉음)의 대비 — 둘 다 입의 액이나 脾·腎으로 갈림. 濕(왼끝)↔燥(오른끝)의 대비. 자세 坐·臥·立 셋 = 五勞 중 셋. 한 사람이 液·惡·勞 3사실씩, 3인 × 3 = 9사실.
+
+**③ 잔결**: 가운데 바닥의 검은 **갓**(흑립) — 뜻 불명(말총=肺脈毛? 華蓋?). 가운데 베개 찢김의 검은 내용물 정체 불명. 잠수복 머리의 마스크·후드는 腎 외 사실 없어 보임. 이어 붙인 흔적은 뚜렷하지 않음.
+
+## 2단계 — 계통 (blind6_사전요약 적용)
+
+**① 단원**: **宣明五氣**(五藏化液·五藏所惡·五勞所傷) 88%. 인물 옷이 그대로 五色·五臟(노란 밀짚모자 농부=脾, 흰 도포 재상=肺, 검은 잠수복 잠수부=腎)이라 1단계 짐작이 사전으로 확정됨. 차순위 **藏象 五行귀속** 8%.
+
+**② 인물**
+- **脾**(농부): 입(口=어두운 구멍)에서 흐르는 침 = **脾爲涎**. 천장 물줄기(濕) + 사람과 물 사이를 막은 우산(**惡**=가리개) = **脾惡濕**. 방석 **셋 포개짐 = 久** + 앉음 + 터진 도톰한 방석(肌의 사물이 해짐) = **久坐傷肉**.
+- **肺**(재상): 콧구멍에서 바닥까지 = **肺爲涕**. 문틈 눈송이 = **寒**(外寒), 문과 머리 사이에 쌓아 막은 베개·문틈 솜 = **惡** → **肺惡寒**. 베개 **셋 포개짐 = 久** + 누움 + 찢긴 틈 곁의 흰 김(氣) = **久臥傷氣**. 바닥의 갓은 재상의 옷차림(肺) — 누워서 벗어 둔 자리 바뀜, 太 아님.
+- **腎**(잠수부): 입에서 뱉어 타구에 담김 = **腎爲唾**. 갈라진 벽 = **燥**, 그 위를 덮은 젖은 수건(惡=가리개)·물대야 = **腎惡燥**. 선 자세 + 몸에 친 거미줄 = **久立傷骨**(사전 글자 久·傷·骨 없음 — 자세로만 나름).
+
+**관계**: 세 방이 五色 순 黃→白→黑 = 土→金→水 상생 차례(肝·心 방은 이웃 띠). 한 사람이 液·惡·勞 3사실, 3×3=9. 涎(흘림)↔唾(뱉음)은 같은 입의 액이 脾·腎으로 갈림, 濕↔燥 양끝 대비.
+
+**③ 잔결**: 腎 방에만 久(셋 포개짐)·傷·骨 글자가 없어 久立傷骨이 자세에만 기댐. 肺 방 눈보라의 옆으로 흐르는 흰 줄이 **風**(옆으로 흘러 날림)으로도 읽혀 肝惡風과 샐 수 있음. 腎 방 맑은 물대야가 **淸**(맑고 찬 물 한 그릇)과 부딪힘. 가운데 베개 틈의 검은 내용물은 여전히 뜻 불명. 방석·베개의 '터짐'은 傷 갈림(닳은 무더기=久)과 겹쳐 傷을 따로 세우지 못함.

diff --git a/src/coverage/blind64z/z20.md b/src/coverage/blind64z/z20.md
@@ -1,0 +1,27 @@
+# z20 판독 (blind64z)
+
+## 1단계 — 생판 (그림만)
+
+**① 단원**: **宣明五氣**(素問·宣明五氣篇: 五液·五惡·五勞所傷) 1순위 80%. 차순위 **五行 藏象 귀속표**, **十二官(靈蘭秘典)**.
+
+**② 인물·소품**
+- 綠室 갑옷 장수 = **肝**. 장수 자체 = 將軍之官. 두 줄기 눈물 = 肝爲淚(五液). 벽의 나무판을 손으로 밀어 막는데 바람줄과 나뭇잎(약 6장)이 들이침 = 肝惡風(五惡). 크게 내딛는 걸음과 바닥에 쌓인, 구멍 나게 닳은 짚신 3짝 = 久行傷筋(五勞). 초록 방 = 靑.
+- 赤室 용포 임금 = **心**. 임금 = 君主之官. 이마 땀방울(약 6) = 心爲汗. 화로의 불 + 불 앞을 가린 그을린 세움판자 = 心惡熱(그을음 = 焦臭일 가능성). 충혈된 붉은 눈 + 책상의 책 + 바닥의 종이 더미 = 久視傷血. 붉은 방 = 赤.
+- 黃室 삿갓 쓴 사내 = **脾**. 입에서 늘어진 침 = 脾爲涎. 천장 먹구름 얼룩에서 새는 물줄기를 우산이 받음 = 脾惡濕. 방석 위 가부좌 = 久坐傷肉. 노란 방·노란 옷 = 黃.
+
+**관계**: 한 지붕 아래 칸이 왼쪽부터 木→火→土, 곧 상생 순(肝→心→脾)으로 늘어섬. 오른쪽 이웃 띠에 肺·腎 칸이 이어질 것으로 봄. 세 사람이 각자 싫어하는 기운을 문판·판자·우산으로 막는 같은 짜임 = 五惡 대구. 장수가 임금 칸 쪽으로 걸음 = 將軍이 君主를 섬김/木生火.
+
+**③ 잔결**: 임금 하체가 살색이라 벗은 듯 보임. 판자의 그을음이 불 쪽이 아니라 임금 쪽 면에 있음. 벽에 붙은 나무판의 정체(문? 방패?)가 모호함. 사내 옷이 승복풍. 우산 오른쪽은 잘림(이웃 띠 몫). 지붕 왼끝 마감이 있어 이 띠는 통합판의 왼쪽 끝으로 봄. 이어 붙인 흔적은 뚜렷하지 않음.
+
+## 2단계 — 계통 (blind6_사전요약 적용)
+
+**① 단원**: **宣明五氣**(五惡·五液·五勞所傷) 90%로 올림. 사전의 「惡 = 해로운 것과 사람 사이에 세워 막은 가리개」, 「久 = 같은 물건 셋이 포개진 것」이 세 칸에 고르게 맞아떨어진다.
+
+**② 인물·소품** (옷 모양은 인물 지시일 뿐이라 1단계의 將軍之官·君主之官 읽기는 버림. 방·옷 색 = 五色 靑·赤·黃)
+- 초록 갑옷 장군 = **肝**. 옆으로 흘러 날리는 잎(약 6장) = 風. 그것을 손으로 눌러 막은 벽판 = 惡 → **肝惡風**. 두 줄기 눈물 = **肝爲淚**. 닳아 구멍 난 짚신 3짝 포개짐 = 久 + 걸음 = **久行**(傷筋. 筋 글자인 갈색 힘줄은 그려지지 않음).
+- 붉은 곤룡포 임금 = **心**. 불꽃 = 熱. 불과 임금 사이에 선 그을린 판자 = 惡 → **心惡熱**. 머리 둘레 땀방울(약 6–7) = 汗 → **心爲汗**. 닳은 책 3권이 포개진 더미 = 久, 책상의 책 = 보기, 충혈된 붉은 눈 = 目 + 血 → **久視傷血**.
+- 노란 밀짚모자 농부 = **脾**. 천장 얼룩에서 떨어지는 물 = 濕(위에서 오니 外濕 쪽). 그 물을 받는 우산 = 惡 → **脾惡濕**. 입에서 늘어진 침 = **脾爲涎**. 방석 위 가부좌 = **坐**(久坐傷肉).
+
+**관계**: 세 사람이 똑같이 「가리개로 막는다」(惡)는 짜임이 五惡의 대구를 이룬다. 칸은 왼쪽부터 木→火→土 순이고, 오른쪽 이웃 띠에 肺(惡寒·涕·久臥)와 腎(惡燥·唾·久立)이 이어질 것으로 봄. 칸마다 惡·液·勞를 하나씩 진 1장부 1칸의 표 구조다.
+
+**③ 잔결**: 농부 칸에만 久(셋 포개짐)가 없어 「久坐」가 「坐」로만 읽힌다. 傷筋·傷肉의 筋·肌 글자가 없다. 판자의 그을음이 불 반대쪽 면에 있다. 임금 하체가 살색이라 벗은 듯 보인다. 淚·涎은 사전에 없는 글자라 그림 그대로 읽었다.

diff --git a/src/coverage/blind65_report.md b/src/coverage/blind65_report.md
@@ -1,0 +1,26 @@
+# blind64z / blind65 — 宣明五氣 통합판 s11u01 v2 (2026-10-25) — PIL 덧그림 → Argon 구역 편집 ZA~ZE
+
+판: `images/s11u01.webp`(v2). 2026-10-17 마감본(v1 = `board_hist/wip/s11u01_v1_pil.webp`)은 Gemini reCAPTCHA로 구역 편집을 못 해 눈물·침·불꽃·눈송이·솜뭉치를 PIL로 덧그렸고, blind26(Y·Z)이 「화풍이 다른 오버레이」로 짚었다. 이번에 보관해 둔 ZA~ZE 프롬프트를 그대로 4 Argon에 보내(바탕 `wip/s11u01_base_v1.png` 조각) v1 위에 own 범위로 합성했다. ZE는 같은 채팅 2회(1차 침이 타구 옆 바닥 → 2차 타구 안). ✦ 둘 메움(ZB·ZD 조각 오른쪽 아래).
+
+## 구역 판독 blind64z (띠 하나씩, 1인)
+| 띠 | 구역 | 단원(2단계) | 읽힌 것 | 안 읽힌 것 |
+|---|---|---|---|---|
+| z20 | 肝 · 心 · 脾 | **宣明五氣 90% ✓** | 肝 淚 · 날리는 잎 + 덧문 = 惡風 · 짚신 셋 = 久行 / 心 汗 · 불꽃 + 통널 = 惡熱 · 붉은 눈 + 헌 책 = 久視傷血 / 脾 涎 · 누수 + 우산 = 惡濕 · 방석 = 坐 — 1단계부터 아홉 다 | 脾 칸만 「셋 포갬 = 久」가 안 보임(방석 셋이 띠 가장자리에 걸림) · 筋·肌 글자 없음 · 임금 하체 살색 |
+| z50 | 心 · 脾 · 肺 | **宣明五氣 85% ✓** | 心 汗·惡熱·久視傷血 / 脾 涎·惡濕·久坐傷肉(방석 셋 = 久, 터진 살색 = 肌+傷) / 肺 涕(콧구멍) · 눈송이 = 惡寒 · 베개 셋 + 누움 = 久臥傷氣 — 아홉 다 | 肺 칸 가리개(惡)가 베개 더미와 과적 · 흰 곡선이 氣 ↔ 風 사이 · 갓 → 太, 기와 → 寺 위험 · 세 칸 소실점이 달라 「이어 붙인 흔적」 |
+| z80 | 脾 · 肺 · 腎 | **宣明五氣 88% ✓** | 脾 涎·惡濕·久坐傷肉 / 肺 涕·惡寒(눈송이 + 솜)·久臥傷氣 / 腎 **타구에 뱉음 = 唾** · 갈라진 벽 + 젖은 수건 = 惡燥 · 선 자세 + 거미줄 = 久立傷骨 — 아홉 다 | 腎 칸에 久·傷·骨 글자 없음 · 눈보라 흰 줄 = 風 위험 · 물대야 = 淸 겹침 · 베개 속 검은 것 뜻 모름 |
+
+## 판 전체 blind65 (2인)
+| 독자 | 1순위 | 肝 | 心 | 脾 | 肺 | 腎 |
+|---|---|---|---|---|---|---|
+| P5 | **宣明五氣 — 五惡·五液·五勞所傷 90%** (2순위 藏象 7%) | ✓ 淚·惡風·久行 | ✓ 汗·惡熱·久視傷血 | ✓ 涎·惡濕·久坐 | ✓ 涕·惡寒·久臥 | ✓ 唾·燥·久立 |
+| Q5 | **宣明五氣 — 五藏所惡·化液·五勞所傷 93%** (2순위 藏象 5%) | ✓ 3/3 | ✓ 3/3 | ✓ 3/3 | ✓ 3/3 | ✓ 3/3 |
+
+**최종 판정**: 판 단원 2/2 宣明五氣 90~93%(v1 blind26 90·88%), 인물 5/5·5/5, 인물마다 所惡·化液·五勞 셋 모두 — **15/15·15/15**. v1의 「肺 涕 반쯤」·「덧그림 화풍 차이」 둘 다 사라짐(涕는 콧구멍에서 요까지 = 2/2 + 띠 둘, 오버레이 지적 0). 띠 셋 다 宣明五氣 ✓. 채택 — v2가 v1을 대신한다.
+
+## 잔결 (기록)
+- **傷의 대상 기호 없음**(筋·肉·氣·骨 — 血만 붉은 눈으로, 4/5 지적) — 낱장 때부터의 설계(五體는 why가 진다). 그대로.
+- **腎 칸만 문법이 어긋남**(惡 가리개 없음 · 久 셋 포갬 없음 — 거미줄이 대신, 2/5) — 정본 예외. 물대야는 사전 淸과 겹침(3/5) · 놋 타구 = 요강(小便) 위험(2/5).
+- 脾 칸 방석 셋이 z20 띠 가장자리에 걸려 久가 안 셈(띠 단독 문제).
+- 肺 눈보라의 가로 흰 줄이 氣 ↔ 風 사이(2/5) · 갓 → 太 · 기와 → 寺(v1과 같음).
+- 임금 하체가 살색(바지 = 맨살로 보임, 3/5) · 베개 끝 「토끼 얼굴」(2/5) · 통널 그을음이 불 반대쪽(1/5).
+- 하단 약 15% 빈 여백 · 지붕이 좌우 끝까지 꽉 참(v1과 같음). 이어 붙임: Q5 「소실점 다름」 하나, 나머지 넷 「없음」.

diff --git a/src/coverage/unify_s11u01_설계.md b/src/coverage/unify_s11u01_설계.md
@@ -37,4 +37,6 @@
 - **PIL 덧그림**(`board_hist/s11u01_post.py` + `draw_kit.py`): 눈물 · 침 · 화로 불꽃 · 문틈 솜뭉치 + 눈송이 · ✦ 셋 메움(`zone_kit finish --wm`) · 오른쪽 2열 마젠타 잔흔 덮음.
 - **blind26 최종 2인: Y 90% · Z 88%, 다섯 인물 5/5 · 5/5, 인물마다 所惡·化液·五勞 셋**(肺 涕만 반쯤) — `blind26_report.md`.
 - 라이브러리: `s11u01` 신설(틀 행 + 20행 — 라벨 행 다섯은 틀 행으로), s11p01~05 → `retired`(merged_into s11u01), 장면 11 ids·chip 교체, 허브 94판.
-- 다음: Gemini가 풀리면 ZA~ZE 구역 편집으로 덧그림을 갈아 끼우고(특히 ZD 肺 — 콧물 + 얼굴), 구역 판독 후 2인 재판독.
+- **v2(2026-10-25)**: 보관한 ZA~ZE를 4 Argon에 그대로(바탕 조각 crop_0~4, 탭 셋에 나눠) — ZA `b83f8ffbeccafa6d` 눈물 두 줄 + 덧문 틈 바람결 ✓ · ZB `95d390f74ffd5cc6` 불꽃·충혈·땀 ✓ · ZC `d43d3dbeb5d63b4b` 침 실 + 우산 위 튀는 빗물 ✓ · ZD `8142974cb55ba1f3` 콧구멍 → 요 콧물 + 눈송이 + 솜뭉치 ✓ · ZE `76301d087ff36522` 1차 침이 타구 옆 바닥 → 같은 채팅 2차 타구 안 ✓(「도구 비활성」 글과 함께 그림이 옴). 중간에 reCAPTCHA 한 번(탭 B·C) → 사용자 해제. 정합 다섯 다 0,0, own = 방 경계 [0,216,411,614,812,1024]. ✦ 둘(ZB·ZD 조각) 메움. v1은 `wip/s11u01_v1_pil.webp`.
+- blind64z: z20 90% · z50 85% · z80 88%, 띠마다 9/9. blind65: **P5 90% · Q5 93%, 5/5·5/5, 15/15·15/15** — v1 잔결 「肺 涕 반쯤」·「덧그림 화풍」 둘 다 사라짐. 잔결 blind65_report.md.
+- 교훈: 구역 편집 프롬프트는 막혀도 버리지 말고 보관하면 일주일 뒤 그대로 통한다(다섯 다 1회 — ZE만 2회). PIL 덧그림은 「사실」은 세우지만(blind26 20/20) 독자가 화풍 차이를 짚는다 — Argon이 살아 있으면 구역 편집이 낫다.
